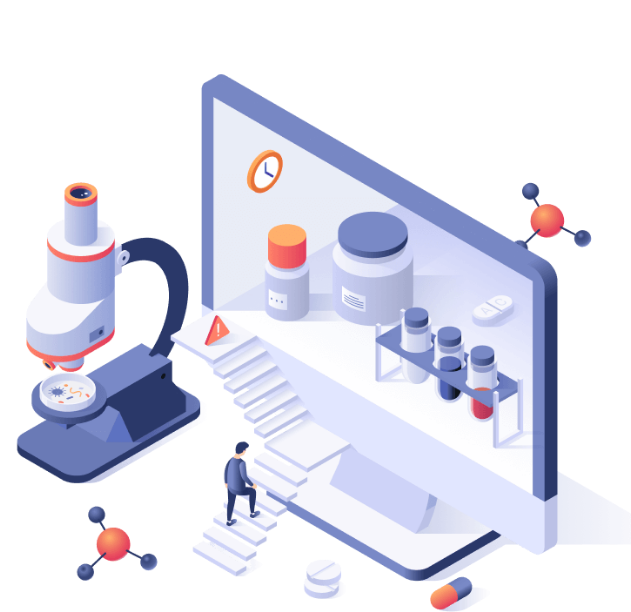
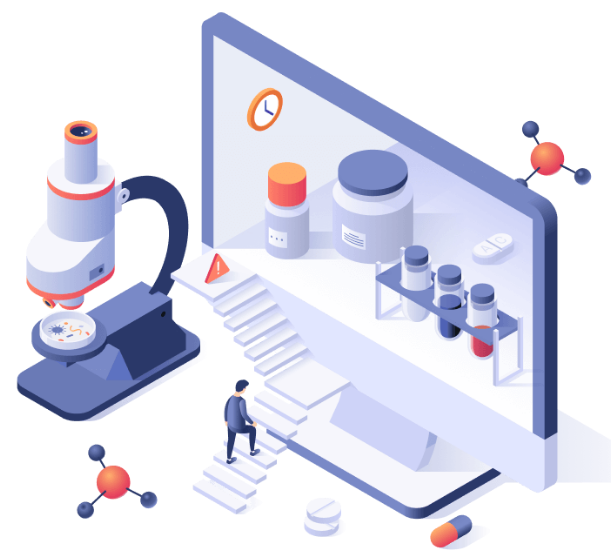
0825

diff --git a/case.html b/case.html
@@ -79,10 +79,11 @@
                                 Industry Cases </h1>
                             <!-- <h3 class="hero-tex3">
                                 <p class="text-h2 text-accent hero-tex4 highlight">AI專業技術的前瞻領航者</p>
-                            </h3>
+                            </h3> -->
                             <p class="hero-text5">
-                                專注於AI 技術與知識工程轉化為企業的實質生產力，協助頂尖機構與企業實現數位轉型與智慧升級。
-                            </p> -->
+                                我們致力於 Ontology 知識系統與神經符號推理技術的落地實踐。作為業務數據與 AI
+                                模型間的關鍵橋樑，優化框架工程核心能力。深耕智慧旅遊與藥業、防災和教育領域，榮獲國發基金等投資，提供頂尖的地端解決方案，驅動全球企業智慧升級。
+                            </p>
                             <!--<a href="#" class="hero-cta"><button class="btn-primary text-h5 ">預約展示</button></a> -->
                         </div>
 
@@ -93,7 +94,7 @@
             </div>
         </div>
         <div class="hero-image">
-            <img src="img/news-pic.png" alt="Riversoft">
+            <img src="img/cases-pic.png" alt="Riversoft">
         </div>
     </div>
     <!-- main -->

diff --git a/news.html b/news.html
@@ -4,7 +4,7 @@
 <head>
     <meta charset="UTF-8">
     <meta name="viewport" content="width=device-width, initial-scale=1.0">
-    <title>關於長川資訊｜Riversoft</title>
+    <title>最新消息/活動｜Riversoft</title>
     <link rel="stylesheet" href="css/style.css">
     <link rel="stylesheet" href="css/components.css">
     <link rel="stylesheet" href="css/custom.css">

diff --git a/case_detail.html b/case_detail.html
@@ -93,7 +93,7 @@
             </div>
         </div>
         <div class="hero-image">
-            <img src="img/news-pic.png" alt="Riversoft">
+            <img src="img/cases-pic.png" alt="Riversoft">
         </div>
     </div>
     <!-- main -->
